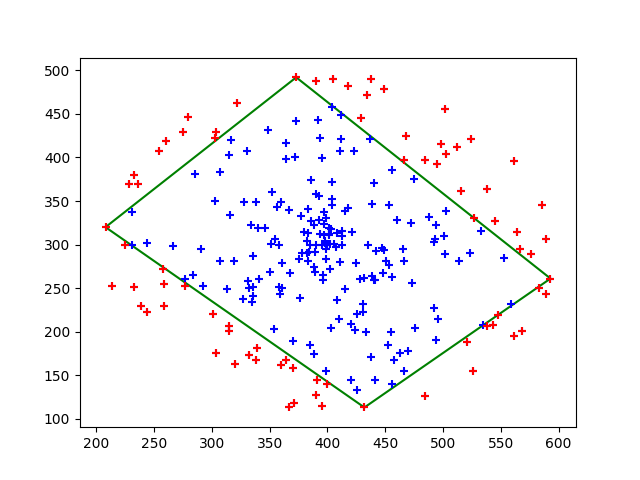
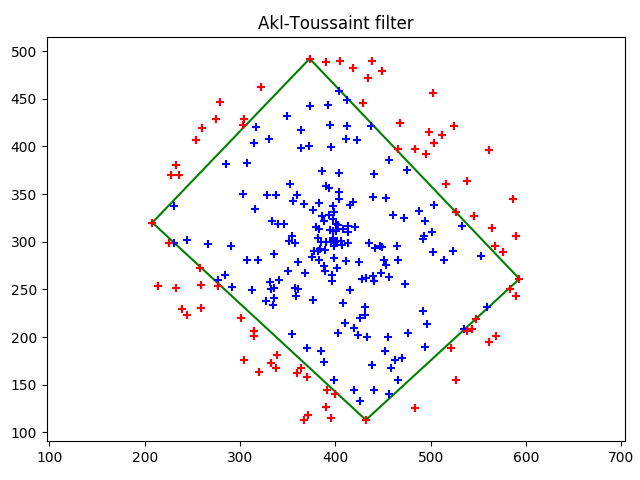
feat: combined performances graphic
and refresh of the images

diff --git a/src/datasets.py b/src/datasets.py
@@ -4,8 +4,8 @@ import ssl
 import matplotlib.pyplot as plt
 import matplotlib.patches as mpatches
 import os
-from numpy.random import rand
-from algorithms import Algorithm, PointSet
+import numpy as np
+from algorithms import Algorithm, PointSet, QuickHull
 from glob import glob
 from time import time
 from collections import defaultdict
@@ -79,7 +79,7 @@ def plot(points: PointSet, areas=[]) -> plt:
     plt.figure()
     patches = []
     for area in areas:
-        color = rand(3,)
+        color = np.random.rand(3,)
         area.plot(plt, color)
         patches.append(mpatches.Patch(color=color, label=area.name))
     plt.legend(handles=patches)
@@ -90,7 +90,9 @@ def plot(points: PointSet, areas=[]) -> plt:
     # plot the points as dots
     points.plot(plt)
 
+    plt.title('Algorithm comparision (%d points)' % len(points))
     plt.axis('equal')
+    plt.tight_layout()
     return plt
 
 
@@ -109,45 +111,40 @@ def benchmark(algos: List[Algorithm], begin=0, end=NB_FILES, step=1) -> Dict:
     """
     results = defaultdict(lambda: {
         'result': [],
-        'duration': []
+        'duration': [],
+        'quality': [],
     })
     data = []
     for idx, file in enumerate(ALL_FILES[begin:end]):
         modulo = idx % step
         if modulo == 0:
             points = get_from_file(file)
-        elif modulo != step - 1:
-            points += get_from_file(file)
         else:
+            points += get_from_file(file)
+        if modulo == step - 1:
             data.append(points)
+            area = QuickHull().execute(points).area()
             for algo in algos:
                 start = time()
                 result = algo.execute(points)
                 duration = time() - start
                 results[algo.name]['result'].append(result)
                 results[algo.name]['duration'].append(duration)
+                results[algo.name]['quality'].append(result.area()/area - 1)
 
     # Plot the duration comparision
-    fig, ax = plt.subplots()
-    ax.set_ylabel('Duration (s)')
-    ax.boxplot([results[algo]['duration'] for algo in results])
+    fig, ax1 = plt.subplots()
+    ax1.set_ylabel('Quality (Lower is best)')
+    ax1.bar(range(1, len(algos) + 1),
+            [np.mean(results[algo]['quality']) for algo in results],
+            0.3)
+    ax2 = ax1.twinx()
+    ax2.set_ylabel('Duration (s)')
+    ax2.boxplot([results[algo]['duration'] for algo in results])
     # set ticks and labels on ax (otherwise it does not work)
-    ax.set_xticklabels(results.keys())
+    ax2.set_xticklabels(results.keys())
     # reduce size of x labels
-    ax.tick_params(axis='x', which='major', labelsize=7)
-    plt.title('Algorithm comparision (%d executions | %d points)' %
-              ((end - begin) / step, len(data[0])))
-    plt.tight_layout()
-
-    # Plot the area comparision
-    fig, ax = plt.subplots()
-    ax.set_ylabel('Area')
-    ax.boxplot([[r.area() for r in results[algo]['result']]
-                for algo in results])
-    # set ticks and labels on ax (otherwise it does not work)
-    ax.set_xticklabels(results.keys())
-    # reduce size of x labels
-    ax.tick_params(axis='x', which='major', labelsize=7)
+    ax2.tick_params(axis='x', which='major', labelsize=7)
     plt.title('Algorithm comparision (%d executions | %d points)' %
               ((end - begin) / step, len(data[0])))
     plt.tight_layout()

diff --git a/src/main.py b/src/main.py
@@ -14,14 +14,15 @@ algos = [
     QuickHullAklToussaint(),
 ]
 
-bench, data = datasets.benchmark(algos, end=500, step=10)
+bench, data = datasets.benchmark(algos, end=100, step=3)
 pprint(bench)
 
-datasets.plot(data[2], [
-    bench['RitterAklToussaint']['result'][2],
-    bench['Ritter']['result'][2],
-    bench['QuickHull']['result'][2],
-    bench['QuickHullAklToussaint']['result'][2],
+num = 0
+datasets.plot(data[num], [
+    # bench['RitterAklToussaint']['result'][num],
+    bench['Ritter']['result'][num],
+    bench['QuickHull']['result'][num],
+    # bench['QuickHullAklToussaint']['result'][num],
 ])
 
 AklToussaint().execute(datasets.get(2))

diff --git a/src/algorithms.py b/src/algorithms.py
@@ -270,6 +270,9 @@ class RitterAklToussaint(Ritter):
 class AklToussaint(Algorithm):
     def execute(self, points: PointSet) -> Area:
         plt.figure()
+        plt.title('Akl-Toussaint filter')
+        plt.axis('equal')
+        plt.tight_layout()
         points.plot(plt)
         points, area = akl_toussaint(points)
         points.plot(plt, 'r')

diff --git a/README.md b/README.md
@@ -2,15 +2,11 @@
 
 Subject: <https://www-apr.lip6.fr/~buixuan/files/algav2019/projet_indiv2.pdf>
 
-| Algorithm                    | Hull                                                            |
-|------------------------------|-----------------------------------------------------------------|
-| Minimal circle approximation | ![minimal circle approximation](docs/minimal-circle-approx.png) |
-| Ritter's bounding circle     | ![bounding circle ritter](docs/bounding-circle-ritter.png)      |
-| Akl-Toussaint filter         | ![akl toussaint filter](docs/akl-toussaint-filter.png)          |
-| Combined                     | ![combined](docs/combined-hulls.png)                            |
+![combined](docs/combined-hulls.png)
+![akl toussaint filter](docs/akl-toussaint-filter.png)
 
-**Duration**  
-![duration comparision](docs/comparision-duration.png)
+**Performances**  
+![comparision](docs/comparision.png)
 
 ## Getting started
 
